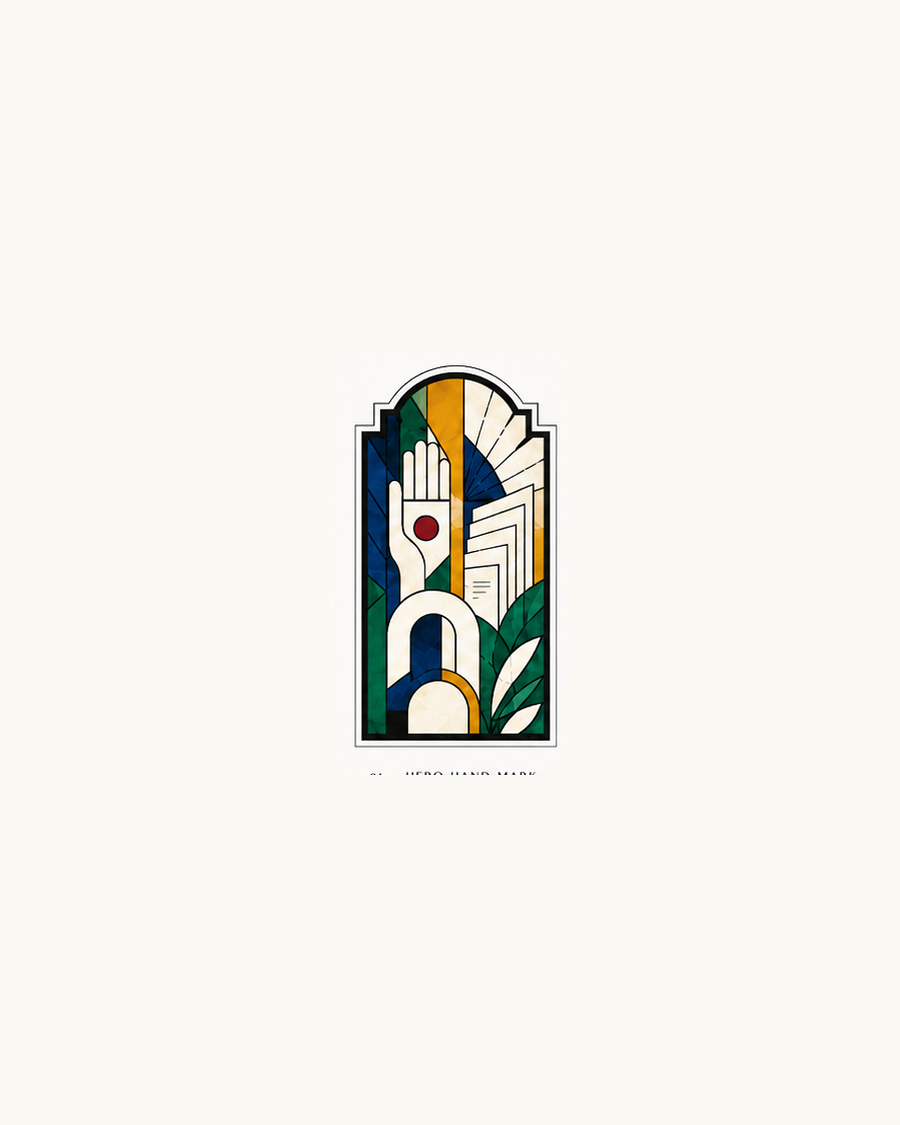
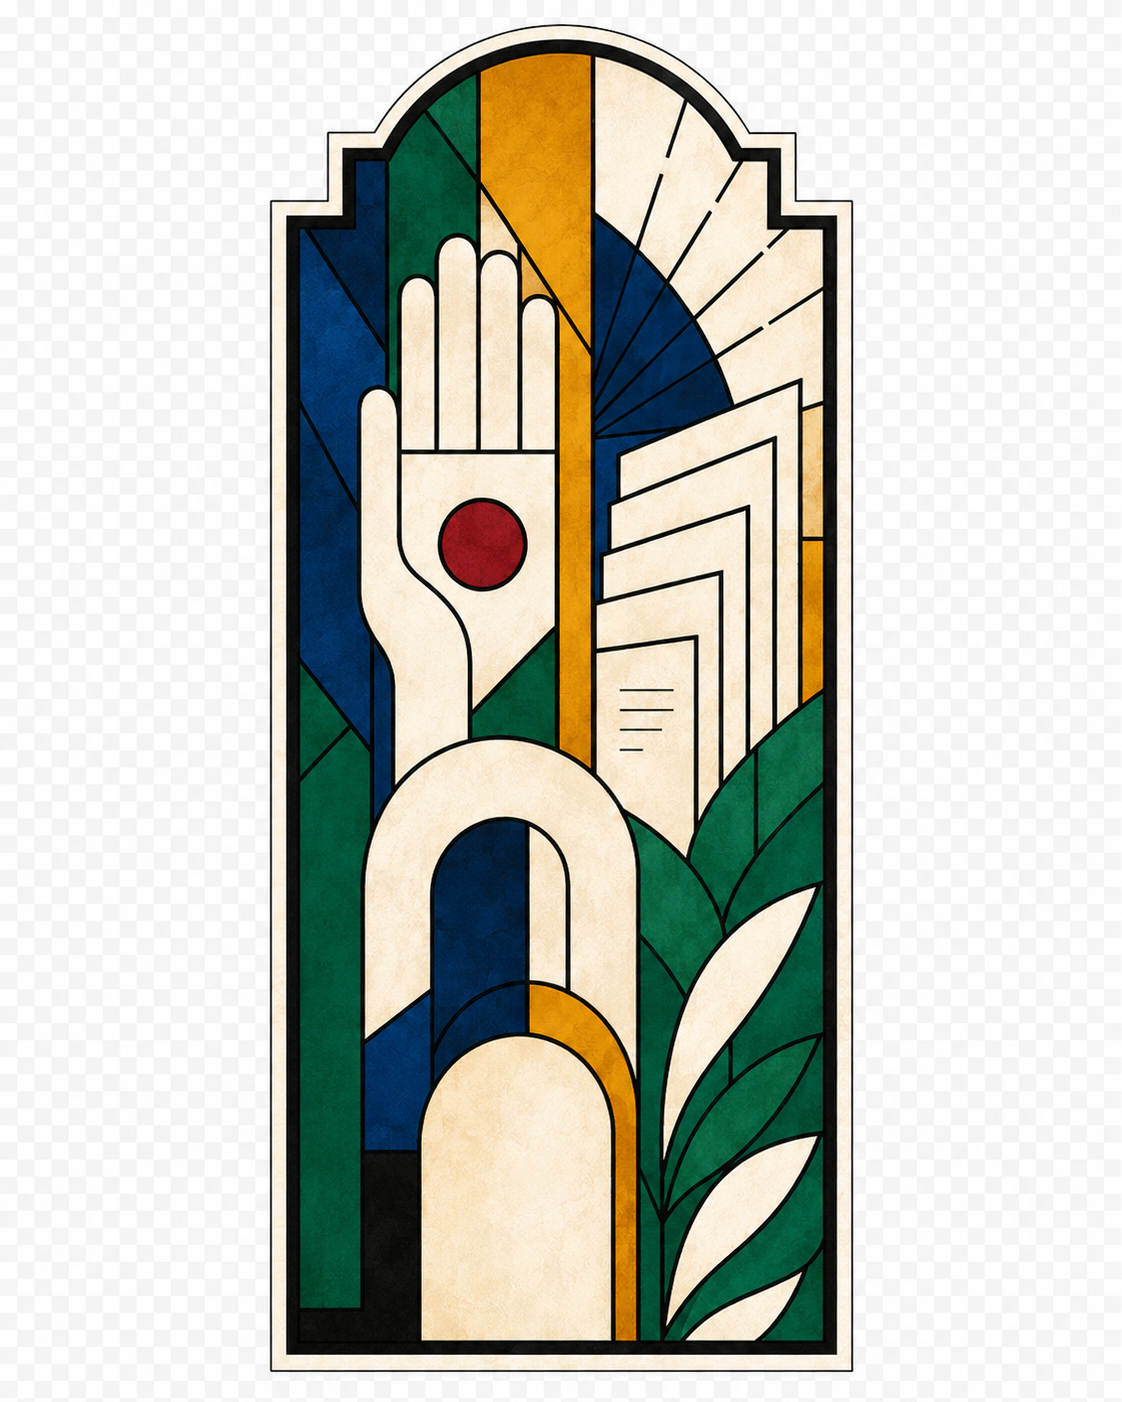
Align homepage feature cards beside text

diff --git a/src/app/page.tsx b/src/app/page.tsx
@@ -1,6 +1,6 @@
+import Image from "next/image";
 import Link from "next/link";
 import BookCard from "@/components/books/BookCard";
-import FeatureCell from "@/components/editorial/FeatureCell";
 import NewsletterStrip from "@/components/editorial/NewsletterStrip";
 import SectionHeading from "@/components/editorial/SectionHeading";
 import FramedPlateImage from "@/components/ui/FramedPlateImage";
@@ -12,9 +12,30 @@ import editorial from "@/components/editorial/editorial.module.css";
 import styles from "./page.module.css";
 
 const features = [
-  { title: "Bookstore", description: "Curated books that shape how we read, think, and make.", href: "/bookstore", ctaLabel: "Browse books" },
-  { title: "The Press", description: "Notes, essays, and records of print, editions, and the work of making.", href: "/the-press", ctaLabel: "Read the press" },
-  { title: "The Studio", description: "Workshops, open studio sessions, drawing, printmaking, and art printing.", href: "/studio", ctaLabel: "Visit the studio" },
+  {
+    title: "Bookstore",
+    description: "Curated books that shape how we read, make, and remember.",
+    href: "/bookstore",
+    ctaLabel: "Browse books",
+    image: "/images/glass/bookstore-pillar.png",
+    imageAlt: "Small stained-glass panel with pages and a ruby mark.",
+  },
+  {
+    title: "The Press",
+    description: "Essays, notes, and reflections on print, editions, and the work of making.",
+    href: "/the-press",
+    ctaLabel: "Explore the press",
+    image: "/images/glass/press-pillar.png",
+    imageAlt: "Small stained-glass panel with pages, a sun, and a ruby mark.",
+  },
+  {
+    title: "The Studio",
+    description: "Workshops, open studio sessions, drawing, printmaking, and art printing.",
+    href: "/studio",
+    ctaLabel: "Visit the studio",
+    image: "/images/glass/studio-panel.png",
+    imageAlt: "Small stained-glass panel with a rising sun and radiating lines.",
+  },
 ];
 
 export default function HomePage() {
@@ -23,23 +44,38 @@ export default function HomePage() {
       <section className={`${editorial.section} ${styles.hero}`}>
         <div className={styles.heroCopy}>
           <p className="eyebrow">A Colophon Press · Ontario, Canada</p>
-          <h1>
+          <Image className={styles.sunburst} src="/images/icons/sunburst.svg" alt="" width={56} height={56} aria-hidden="true" />
+          <h1>Books, Press, Studio</h1>
+          <p className={styles.heroStatement}>
             Writing becomes print.<br />
             Print becomes object.<br />
             What is made here<br />
             stays in the hand.
-          </h1>
+          </p>
           <div className={styles.actions}>
             <CtaLink href="/bookstore">Browse books</CtaLink>
             <CtaLink href="/the-press" variant="secondary">The Press</CtaLink>
-            <CtaLink href="/studio" variant="text">The Studio</CtaLink>
           </div>
         </div>
-        <FramedPlateImage src="/images/glass/hero-hand-mark.png" alt="Stained-glass plate of a hand holding paper." portrait priority />
+        <div className={styles.heroArt}>
+          <FramedPlateImage src="/images/glass/hero-hand-mark.png" alt="Stained-glass panel of a hand, pages, leaves, and a ruby mark." portrait priority />
+        </div>
       </section>
 
-      <section className={`${editorial.section} ${editorial.featureGrid}`} aria-label="Read, make, and record">
-        {features.map((feature) => <FeatureCell key={feature.href} {...feature} />)}
+      <section className={`${editorial.section} ${styles.featureGrid}`} aria-label="Explore Colophon">
+        {features.map((feature) => (
+          <article className={styles.featureCard} key={feature.href}>
+            <div className={styles.featureImage}>
+              <Image src={feature.image} alt={feature.imageAlt} fill sizes="(max-width: 48rem) 34vw, 14vw" />
+            </div>
+            <div className={styles.featureCopy}>
+              <Image className={styles.cardSunburst} src="/images/icons/sunburst.svg" alt="" width={40} height={40} aria-hidden="true" />
+              <h2>{feature.title}</h2>
+              <p>{feature.description}</p>
+              <CtaLink href={feature.href} variant="text">{feature.ctaLabel}</CtaLink>
+            </div>
+          </article>
+        ))}
       </section>
 
       <section className={editorial.section}>

diff --git a/src/app/page.module.css b/src/app/page.module.css
@@ -1,8 +1,9 @@
 .hero {
   display: grid;
-  grid-template-columns: minmax(0, 1.3fr) minmax(17rem, 0.7fr);
+  grid-template-columns: minmax(0, 1fr) minmax(20rem, 0.72fr);
   align-items: center;
-  gap: var(--space-8);
+  gap: var(--space-9);
+  min-height: 42rem;
 }
 
 .heroCopy {
@@ -12,15 +13,110 @@
   gap: var(--space-5);
 }
 
+.sunburst,
+.cardSunburst {
+  color: var(--color-ink);
+}
+
+.sunburst {
+  width: 3.5rem;
+  height: 3.5rem;
+}
+
 .hero h1 {
-  max-width: 12ch;
-  font-size: var(--text-5xl);
+  font-size: clamp(var(--text-3xl), 5vw, var(--text-5xl));
+}
+
+.heroStatement {
+  max-width: 24ch;
+  color: var(--color-text-muted);
+  font-family: var(--font-serif);
+  font-size: var(--text-2xl);
+  line-height: var(--leading-snug);
+}
+
+.heroArt {
+  width: min(100%, 25rem);
+  justify-self: center;
 }
 
 .actions {
   display: flex;
   flex-wrap: wrap;
   gap: var(--space-3);
+}
+
+.featureGrid {
+  display: grid;
+  grid-template-columns: repeat(3, 1fr);
+  padding-block: 0;
+  border-block: var(--border-hairline);
+}
+
+.featureCard {
+  display: grid;
+  grid-template-columns: minmax(6.5rem, 0.65fr) minmax(0, 1.35fr);
+  align-items: center;
+  gap: var(--space-6);
+  min-height: 23rem;
+  padding: var(--space-6);
+}
+
+.featureCard + .featureCard {
+  border-left: var(--border-hairline);
+}
+
+.featureImage {
+  position: relative;
+  width: 100%;
+  aspect-ratio: 4 / 7;
+  overflow: hidden;
+}
+
+.featureImage img {
+  object-fit: cover;
+}
+
+.featureCopy {
+  display: flex;
+  align-items: flex-start;
+  flex-direction: column;
+  gap: var(--space-3);
+}
+
+.cardSunburst {
+  width: 2.5rem;
+  height: 2.5rem;
+  margin-bottom: var(--space-2);
+}
+
+.featureCopy h2 {
+  font-family: var(--font-sans);
+  font-size: var(--text-sm);
+  font-weight: var(--weight-semibold);
+  letter-spacing: var(--tracking-wider);
+  text-transform: uppercase;
+}
+
+.featureCopy p {
+  max-width: 30ch;
+  color: var(--color-text-muted);
+}
+
+@media (max-width: 70rem) {
+  .featureGrid {
+    grid-template-columns: 1fr;
+  }
+
+  .featureCard {
+    grid-template-columns: minmax(8rem, 0.4fr) minmax(0, 1.6fr);
+    min-height: 0;
+  }
+
+  .featureCard + .featureCard {
+    border-top: var(--border-hairline);
+    border-left: 0;
+  }
 }
 
 .bookGrid {
@@ -64,6 +160,27 @@
 @media (max-width: 48rem) {
   .hero {
     grid-template-columns: 1fr;
+    gap: var(--space-7);
+    min-height: 0;
+  }
+
+  .heroArt {
+    width: min(100%, 24rem);
+  }
+
+  .actions {
+    display: grid;
+    width: 100%;
+    grid-template-columns: 1fr;
+  }
+
+  .featureGrid {
+    grid-template-columns: 1fr;
+  }
+
+  .featureCard {
+    grid-template-columns: minmax(7rem, 0.55fr) minmax(0, 1.45fr);
+    padding-inline: 0;
   }
 
   .bookGrid {
@@ -76,5 +193,15 @@
 
   .studioNotes > * {
     padding-block: var(--space-3);
+  }
+}
+
+@media (max-width: 32rem) {
+  .featureCard {
+    grid-template-columns: 1fr;
+  }
+
+  .featureImage {
+    width: min(58%, 12rem);
   }
 }

diff --git a/src/app/about/page.tsx b/src/app/about/page.tsx
@@ -14,7 +14,7 @@ const links = [
 export default function AboutPage() {
   return (
     <>
-      <PageHeader title="About" intro="Colophon is an imprint and press devoted to work made with care and intention." note="We publish books, essays, and objects that explore language, material, and the quiet authority of print. Based in Ontario, Canada." image="/images/glass/about-panel.png" imageAlt="Framed stained-glass plate for Colophon." />
+      <PageHeader title="About" intro="Colophon is an imprint and press devoted to work made with care and intention." note="We publish books, essays, and objects that explore language, material, and the quiet authority of print. Based in Ontario, Canada." image="/images/glass/about-panel.png" imageAlt="Stained-glass panel of paper, a pen nib, leaves, and a ruby mark." imagePortrait />
       <section className={`${editorial.section} ${styles.links}`} aria-label="Explore Colophon">
         {links.map(([href, label]) => <Link href={href} key={href}>{label}<span>→</span></Link>)}
       </section>

diff --git a/src/app/bookstore/page.tsx b/src/app/bookstore/page.tsx
@@ -9,7 +9,7 @@ import styles from "./page.module.css";
 export default function BookstorePage() {
   return (
     <>
-      <PageHeader title="Bookstore" intro="Curated books that shape how we read, think, and make." note="This shelf is experimental and will change as the catalogue takes shape." image="/images/glass/bookstore-header.png" imageAlt="Framed stained-glass plate for the bookstore." />
+      <PageHeader title="Bookstore" intro="Curated books that shape how we read, think, and make." note="This shelf is experimental and will change as the catalogue takes shape." image="/images/glass/bookstore-pillar.png" imageAlt="Stained-glass panel of pages, a leaf, and a ruby mark." imagePortrait />
       <section className={editorial.section}>
         <div className={editorial.tabs}>{["All Books", "Poetry", "Essays", "Letterpress", "Craft", "Art"].map((item) => <span key={item}>{item}</span>)}</div>
         <div className={styles.grid}>{books.map((book) => <BookCard key={book.slug} book={book} />)}</div>

diff --git a/src/app/the-press/page.tsx b/src/app/the-press/page.tsx
@@ -7,7 +7,7 @@ import editorial from "@/components/editorial/editorial.module.css";
 export default function PressPage() {
   return (
     <>
-      <PageHeader title="The Press" intro="Notes, essays, and reflections on print, editions, and the work of making." image="/images/press/press-index-glass-detail.png" imageAlt="Framed stained-glass editorial plate." />
+      <PageHeader title="The Press" intro="Notes, essays, and reflections on print, editions, and the work of making." image="/images/glass/press-pillar.png" imageAlt="Stained-glass panel of pages, a sun, and a ruby mark." imagePortrait />
       <section className={editorial.section}>
         <div className={editorial.tabs}>{["All", "Essays", "Notes", "Interviews", "Process", "Updates"].map((item) => <span key={item}>{item}</span>)}</div>
         {pressPosts.map((post) => <PressCard key={post.slug} post={post} />)}

diff --git a/src/components/editorial/PageHeader.tsx b/src/components/editorial/PageHeader.tsx
@@ -8,6 +8,7 @@ interface PageHeaderProps {
   note?: string;
   image?: string;
   imageAlt?: string;
+  imagePortrait?: boolean;
 }
 
 export default function PageHeader({
@@ -17,6 +18,7 @@ export default function PageHeader({
   note,
   image,
   imageAlt = "",
+  imagePortrait = false,
 }: PageHeaderProps) {
   return (
     <header className={`${styles.section} ${styles.pageHeader}`}>
@@ -26,7 +28,7 @@ export default function PageHeader({
         <p className={styles.pageIntro}>{intro}</p>
         {note ? <p className={styles.note}>{note}</p> : null}
       </div>
-      {image ? <FramedPlateImage src={image} alt={imageAlt} priority /> : null}
+      {image ? <FramedPlateImage src={image} alt={imageAlt} portrait={imagePortrait} priority /> : null}
     </header>
   );
 }

diff --git a/src/components/ui/FramedPlateImage.module.css b/src/components/ui/FramedPlateImage.module.css
@@ -7,12 +7,17 @@
 }
 
 .portrait {
-  aspect-ratio: 3 / 5;
+  aspect-ratio: 4 / 7;
+  overflow: hidden;
 }
 
 .image {
-  object-fit: cover;
+  object-fit: contain;
   padding: var(--space-2);
+}
+
+.portrait .image {
+  object-fit: cover;
 }
 
 .placeholder {
